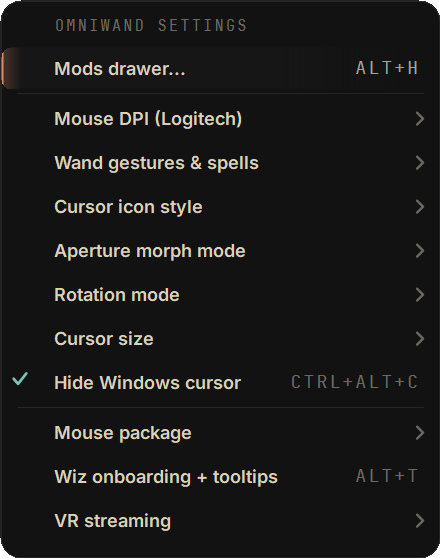
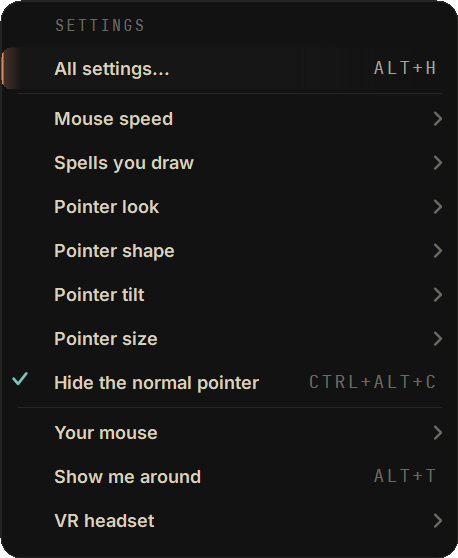
chore(renders): as-built shots under the plain menu names
SurfaceCapture finds the Spells you draw and Mouse speed submenus by their new labels and writes
menu-speed-submenu.png in place of menu-dpi-submenu.png. Re-rendered every surface; removed the
renders saved under the old menu names (Mouse DPI, Mouse package, Cursor icon style, Rotation
mode, VR streaming, Capture & intake and the rest).

diff --git a/SurfaceCapture.cs b/SurfaceCapture.cs
@@ -44,7 +44,7 @@ internal static class SurfaceCapture
             settings.DropDownItems.OfType<ToolStripMenuItem>().FirstOrDefault()?.Select();
             Save(Render(settings.DropDown), Path.Combine(dir, "menu-settings-submenu.png"), written);
 
-            var spells = settings.DropDownItems.OfType<ToolStripMenuItem>().FirstOrDefault(i => i.DropDownItems.Count > 0 && (i.Text ?? string.Empty).Contains("gestures", StringComparison.OrdinalIgnoreCase));
+            var spells = settings.DropDownItems.OfType<ToolStripMenuItem>().FirstOrDefault(i => i.DropDownItems.Count > 0 && (i.Text ?? string.Empty).Contains("Spells", StringComparison.OrdinalIgnoreCase));
             if (spells != null)
             {
                 using (Render(spells.DropDown)) { }
@@ -52,12 +52,12 @@ internal static class SurfaceCapture
                 spells.DropDown.Close();
             }
 
-            var dpi = settings.DropDownItems.OfType<ToolStripMenuItem>().FirstOrDefault(i => i.DropDownItems.Count > 0 && (i.Text ?? string.Empty).Contains("DPI", StringComparison.OrdinalIgnoreCase));
-            if (dpi != null)
+            var speed = settings.DropDownItems.OfType<ToolStripMenuItem>().FirstOrDefault(i => i.DropDownItems.Count > 0 && (i.Text ?? string.Empty).Contains("speed", StringComparison.OrdinalIgnoreCase));
+            if (speed != null)
             {
-                using (Render(dpi.DropDown)) { }
-                Save(RenderDpiSubmenuSheet(dpi), Path.Combine(dir, "menu-dpi-submenu.png"), written);
-                dpi.DropDown.Close();
+                using (Render(speed.DropDown)) { }
+                Save(RenderSpeedSubmenuSheet(speed), Path.Combine(dir, "menu-speed-submenu.png"), written);
+                speed.DropDown.Close();
             }
 
             settings.DropDown.Close();
@@ -221,9 +221,9 @@ internal static class SurfaceCapture
         }
     }
 
-    private static Bitmap RenderDpiSubmenuSheet(ToolStripMenuItem dpiMenu)
+    private static Bitmap RenderSpeedSubmenuSheet(ToolStripMenuItem speedMenu)
     {
-        var dd = dpiMenu.DropDown;
+        var dd = speedMenu.DropDown;
         int w = Math.Max(248, dd.Width);
         int h = Math.Max(228, dd.Height);
         var bmp = new Bitmap(w, h, PixelFormat.Format32bppArgb);
